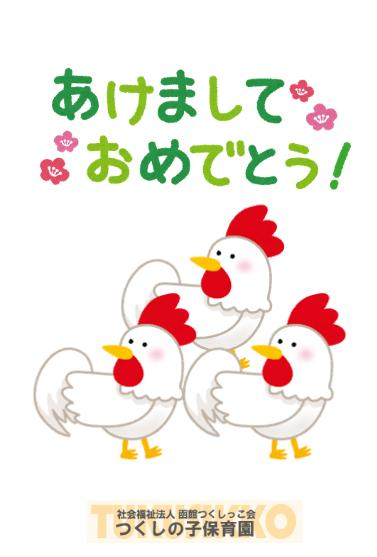
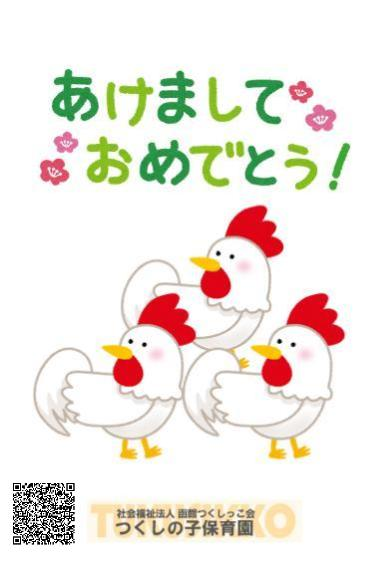
QRコード埋め込み

diff --git a/development/kindergarten_roster_management/www/開発_for_nenngajyou.html b/development/kindergarten_roster_management/www/開発_for_nenngajyou.html
@@ -51,7 +51,7 @@ function myChange(){	// 定期的に画像を更新する関数
         <tr>
             <td>
                 <center>
-                    <div class=""><img data-brackets-id="4" src="./index_files/tori.jpg" width="50%" height="auto" name="sshow"></div>
+                    <div class=""><img data-brackets-id="4" src="tori.jpg" width="50%" height="auto" name="sshow"></div>
                 </center>
             </td>
 
@@ -69,7 +69,7 @@ function myChange(){	// 定期的に画像を更新する関数
         </a>
     </div>
 
-    <div class="" id="QR"></div>
+    <!-- <div class="" id="QR"></div> -->
     <script data-brackets-id="5" type="text/javascript">
 <!--
         document.getElementById("QR").innerHTML = "<img src=\"./img/QR.gif\" style=\"position:absolute;top:70px;left:353px;\" width=\"45\" height=\"45\" class=\"dspOnly\">";
